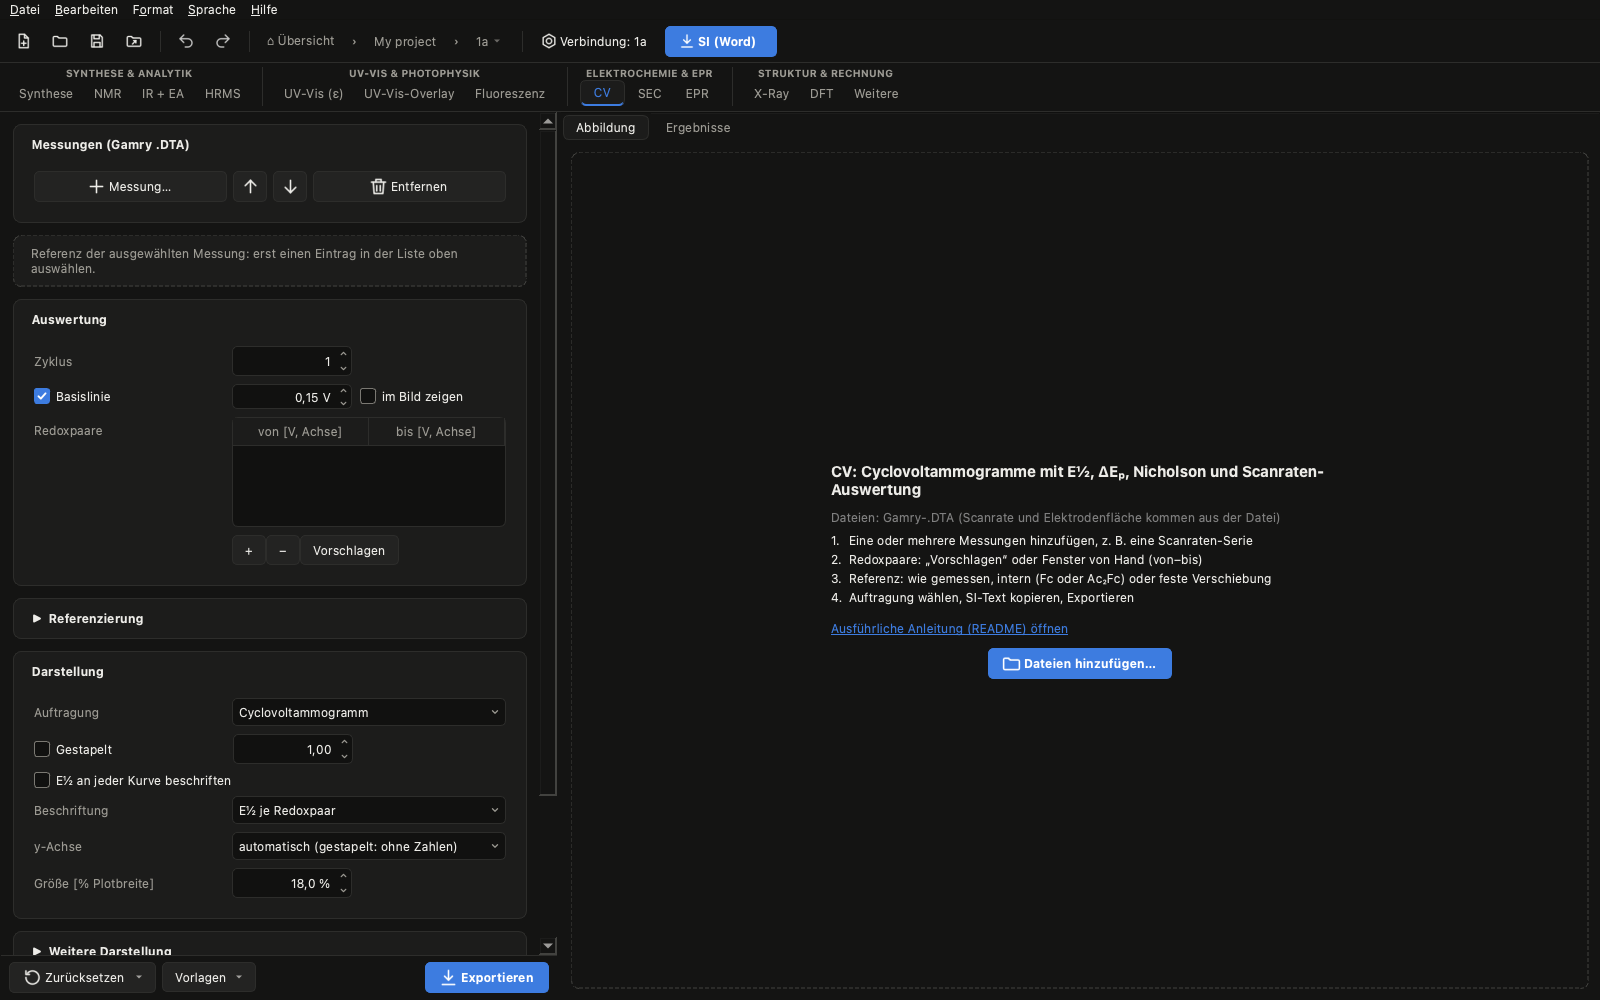
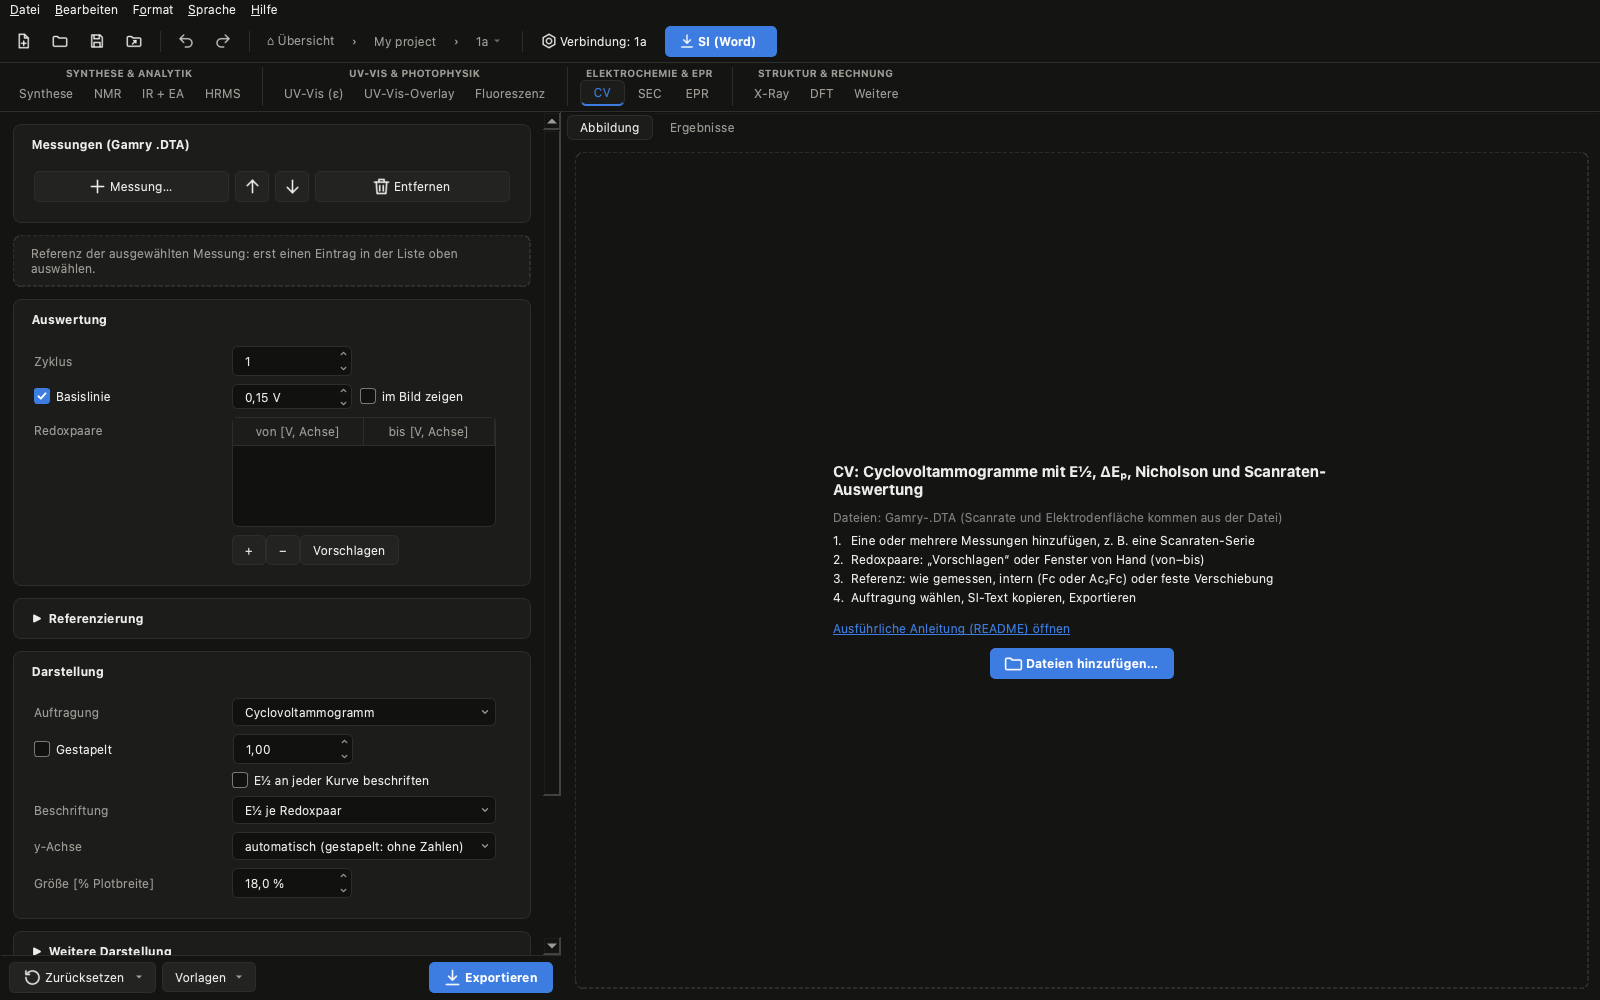
release: 2.4.1 – fields on a fixed grid, same column width in every tab
- Fields: number fields one width, lists/text fields/ranges end at one edge per tab
  (STYLE.WIDE_W, _field_edge); all field text left-aligned with the same inset
- Empty hint lines hide their form row (STYLE.HintLabel)
- Start screen: time and project of a compound share the right edge
- Changelogs 2.4.1, README screenshots regenerated

diff --git a/elucida/app/style.py b/elucida/app/style.py
@@ -150,6 +150,25 @@ def hide_when_empty(table):
     upd()
 
 
+class HintLabel(QLabel):
+    """Hinweiszeile, die ohne Text samt Zeilenabstand verschwindet (keine Leerzeile im Formular)."""
+
+    def setText(self, text):
+        super().setText(text)
+        self.sync()
+
+    def sync(self):
+        p = self.parentWidget()
+        if p is None:
+            return
+        vis = bool(self.text())
+        form = next((fl for fl in p.findChildren(QFormLayout) if fl.indexOf(self) >= 0), None)
+        if form is not None:
+            form.setRowVisible(self, vis)
+        else:
+            self.setVisible(vis)
+
+
 def card(title):
     """Gruppe als Karte, Titel und Ränder wie QGroupBox in den übrigen Tabs. Gibt (Karte, Inhalts-Widget) zurück."""
     frame = QFrame(objectName="card")
@@ -167,7 +186,8 @@ def card(title):
 
 
 FIELD_W = 120                     # einheitliche Breite der Zahlenfelder (Raster der linken Spalte)
-COLUMN_W = 534                    # linke Spalte in allen Tabs gleich breit (breiter nur, wenn Inhalt sonst abgeschnitten)
+WIDE_W = 2 * FIELD_W + 24          # Wertespalte: Listen, Textfelder, „[a] – [b]“ enden an einer Kante (Nutzerwunsch)
+COLUMN_W = 538                    # linke Spalte in allen Tabs gleich breit (breiter nur, wenn Inhalt sonst abgeschnitten)
 CHECKS_IN_FIELD_COLUMN = True     # Häkchen-Zeilen in der Wertespalte (eine Kante für alle Bedienelemente)
 
 
@@ -177,6 +197,50 @@ def _fw(fl, r):
     if li is None or fi is None:
         return 0
     return li.sizeHint().width() + fl.horizontalSpacing() + fi.sizeHint().width()
+
+
+def _field_edge(root):
+    """Wertespalte je Tab an einer Kante (siehe unten): Listen und Textfelder
+    genau so breit, in Zeilen mit mehreren Teilen wächst das erste dehnbare Element (Dateiname, Textfeld, Lücke vor
+    den Knöpfen) auf die Kante. Feste Breiten statt Formularrand: der würde die Mindestbreite der Spalte mitziehen."""
+    from PySide6.QtWidgets import QAbstractScrollArea, QLineEdit
+    forms = [fl for fl in root.findChildren(QFormLayout) if fl.parentWidget() is not None]
+    items = [it for fl in forms for it in (fl.itemAt(r, QFormLayout.FieldRole) for r in range(fl.rowCount()))
+             if it is not None]
+    if not items:
+        return
+    for it in items:
+        if it.widget() is not None:
+            it.widget().ensurePolished()
+    # Kante je Tab: mindestens WIDE_W, sonst die breiteste Zeile aus mehreren Teilen („[a] Ränder [b]“), aber nie
+    # breiter als die feste Spalte (COLUMN_W abzüglich Ränder und Beschriftungsspalte) – die Abbildung bleibt gleich groß
+    lab = max((fl.itemAt(r, QFormLayout.LabelRole).widget().minimumWidth() for fl in forms for r in range(fl.rowCount())
+               if fl.itemAt(r, QFormLayout.LabelRole) is not None and fl.itemAt(r, QFormLayout.LabelRole).widget()),
+              default=0)
+    room = COLUMN_W - 2 * 12 - 2 * 16 - lab - 12 - 10          # Reserve: verschachtelte Karten, Klappkarten
+    wide = max([WIDE_W] + [h for h in (it.sizeHint().width() for it in items if it.layout() is not None) if h <= room])
+    stretchy = (QLineEdit, QComboBox, QAbstractScrollArea)
+    for fl in forms:
+        fl.setFieldGrowthPolicy(QFormLayout.FieldsStayAtSizeHint)
+    for it in items:
+        w, lay = it.widget(), it.layout()
+        if isinstance(w, stretchy) and w.maximumWidth() != FIELD_W:
+            w.setFixedWidth(wide)
+        elif isinstance(lay, QHBoxLayout) and lay.sizeHint().width() < wide:
+            extra = wide - lay.sizeHint().width()
+            for i in range(lay.count()):
+                sub_ = lay.itemAt(i)
+                x = sub_.widget()
+                if sub_.spacerItem() is not None and sub_.expandingDirections() & Qt.Horizontal:
+                    sp = sub_.spacerItem()
+                    sp.changeSize(sp.sizeHint().width() + extra, 0, QSizePolicy.Fixed, QSizePolicy.Minimum)
+                elif (isinstance(x, stretchy) or (isinstance(x, QLabel) and lay.stretch(i) > 0)) and \
+                        x.maximumWidth() != FIELD_W:
+                    x.setFixedWidth(x.sizeHint().width() + extra)
+                else:
+                    continue
+                lay.invalidate()
+                break
 
 
 def tidy(root):
@@ -280,6 +344,9 @@ def tidy(root):
                     if (isinstance(first, QCheckBox) and not isinstance(second, QAbstractSpinBox)
                             and lay.sizeHint().width() + indent <= room):
                         lay.setContentsMargins(indent, 0, 0, 0)
+    _field_edge(root)
+    for h in root.findChildren(HintLabel):                    # leere Hinweise ohne Zeile
+        h.sync()
     for lay in root.findChildren(QHBoxLayout):
         items = [lay.itemAt(i) for i in range(lay.count())]
         if any(isinstance(it.widget(), (QLabel, QCheckBox)) for it in items[1:]):   # Beschriftung nicht ankleben
@@ -301,8 +368,9 @@ class _WheelGuard(QObject):
         t = ev.type()
         if t == QEvent.Polish and isinstance(obj, (QAbstractSpinBox, QComboBox)):
             obj.setFocusPolicy(Qt.StrongFocus)                  # Mausrad gibt keinen Fokus (Qt-Standard: doch)
-            if isinstance(obj, QAbstractSpinBox):               # Zahlen rechtsbündig: Stellen/Einheiten untereinander
-                obj.setAlignment(Qt.AlignRight | Qt.AlignVCenter)
+            if isinstance(obj, QAbstractSpinBox):               # linksbündig wie Text- und Auswahlfelder (Nutzerwunsch)
+                obj.setAlignment(Qt.AlignLeft | Qt.AlignVCenter)
+                obj.lineEdit().setTextMargins(11, 0, 0, 0)      # Stylesheet-Padding gilt nicht für das innere Feld
             if obj.property("fieldw"):                          # Rasterbreite nach dem Stylesheet erneut festsetzen
                 obj.setFixedWidth(FIELD_W)
         elif (t == QEvent.Polish and isinstance(obj, QDialog) and not isinstance(obj, (QMessageBox, QFileDialog))
@@ -558,7 +626,7 @@ QLabel#cardTitle {{ font-weight: bold; }}
 QLabel[formlabel="true"] {{ color: {c['text2']}; }}
 QLineEdit, QSpinBox, QDoubleSpinBox, QComboBox {{
     background: {c['field']}; border: 1px solid {c['border']}; border-radius: 5px;
-    padding: 3px 6px; min-height: 18px; selection-background-color: {c['accent']}; }}
+    padding: 3px 10px; min-height: 18px; selection-background-color: {c['accent']}; }}
 QLineEdit:focus, QSpinBox:focus, QDoubleSpinBox:focus, QComboBox:focus {{ border-color: {c['accent']}; }}
 QLineEdit:disabled, QSpinBox:disabled, QDoubleSpinBox:disabled, QComboBox:disabled {{
     color: {c['disabled']}; background: {c['alt']}; }}
@@ -571,6 +639,7 @@ QSpinBox::up-arrow, QDoubleSpinBox::up-arrow {{ image: url("{a['up']}"); width: 
 QSpinBox::down-arrow, QDoubleSpinBox::down-arrow {{ image: url("{a['down']}"); width: 11px; height: 11px; }}
 QSpinBox::up-arrow:disabled, QDoubleSpinBox::up-arrow:disabled {{ image: url("{a['up_dis']}"); }}
 QSpinBox::down-arrow:disabled, QDoubleSpinBox::down-arrow:disabled {{ image: url("{a['down_dis']}"); }}
+QComboBox {{ padding-left: 12px; }}
 QComboBox::drop-down {{ subcontrol-origin: padding; subcontrol-position: center right; width: 20px; border: none; }}
 QComboBox::down-arrow {{ image: url("{a['down']}"); width: 12px; height: 12px; }}
 QComboBox::down-arrow:disabled {{ image: url("{a['down_dis']}"); }}

diff --git a/elucida/app/main_window.py b/elucida/app/main_window.py
@@ -42,7 +42,7 @@ from PySide6.QtWidgets import (QAbstractItemView, QAbstractSpinBox, QApplication
                                QDialog, QDialogButtonBox, QDoubleSpinBox, QFileDialog, QFontComboBox,
                                QFormLayout, QFrame, QGridLayout, QGroupBox, QHBoxLayout, QInputDialog,
                                QHeaderView, QLabel, QLineEdit, QListWidget, QListWidgetItem, QMainWindow, QMenu, QMessageBox,
-                               QPlainTextEdit, QProgressDialog, QPushButton, QScrollArea,
+                               QPlainTextEdit, QProgressDialog, QPushButton, QScrollArea, QSizePolicy,
                                QSpinBox, QSplitter, QStackedWidget, QStatusBar, QTableWidget, QTableWidgetItem, QTextBrowser,
                                QTabWidget, QToolButton, QVBoxLayout, QWidget)
 
@@ -780,6 +780,7 @@ class MainWindow(QMainWindow):
         self.btn_open = QPushButton(STYLE.icon("open", "#FFFFFF"), T("act_open"))
         self.btn_open.setProperty("accent", True)
         self.btn_open.clicked.connect(self.choose_csv)
+        self.btn_open.setSizePolicy(QSizePolicy.Fixed, QSizePolicy.Fixed)      # natürliche Breite
         row.addWidget(self.btn_open)
         self.lbl_file = QLabel(self.files_label() if self.csv_path else T("no_file"))
         self.lbl_file.setWordWrap(True)

diff --git a/elucida/app/welcome.py b/elucida/app/welcome.py
@@ -199,6 +199,10 @@ class RecentRow(QWidget):
             title.addWidget(ElidedLabel("·  " + info["note"], objectName="recentNote"), 1)
         else:
             title.addStretch(1)
+        # Zeit rechts in der Titelzeile: gleiche rechte Kante wie „▸ Projekt“ darunter (Nutzerwunsch: symmetrisch)
+        when = QLabel(relative_time(info["modified"]), objectName="recentWhen", alignment=Qt.AlignRight | Qt.AlignVCenter)
+        when.setToolTip(info["modified"].strftime("%d.%m.%Y %H:%M"))
+        title.addWidget(when)
         parent = short_path(Path(info["path"]).parent)
         sub = ElidedLabel((info["folder"] + "  ·  " if info["has_compound"] else "") + parent, objectName="recentSub")
         sub.setToolTip(info["path"])
@@ -222,9 +226,6 @@ class RecentRow(QWidget):
         if extra is not None:                          # Publikation: Checkliste der Verbindung
             v.addWidget(extra)
         h.addLayout(v, 1)
-        when = QLabel(relative_time(info["modified"]), objectName="recentWhen", alignment=Qt.AlignRight | Qt.AlignTop)
-        when.setToolTip(info["modified"].strftime("%d.%m.%Y %H:%M"))
-        h.addWidget(when, 0, Qt.AlignTop)
 
     draggable = False                                  # Projektseite: Reihenfolge per Ziehen ändern
     DRAG_MIME = "application/x-elucida-compound"

diff --git a/elucida/tabs/base.py b/elucida/tabs/base.py
@@ -988,7 +988,7 @@ class FigureTab(QWidget):
             self.ed_cap[key] = ed
             lab = f"{self.STATE_KEY}_cap_{key}"
             f.addRow(T(lab if lab in TEXTS else f"cap_{key}"), ed)
-        self.lbl_cap = QLabel("")
+        self.lbl_cap = STYLE.HintLabel("")
         self.lbl_cap.setWordWrap(True)
         self.lbl_cap.setTextFormat(Qt.RichText)
         self.lbl_cap.setStyleSheet(HINT_CSS)
@@ -1200,7 +1200,7 @@ class OverlayTab(FigureTab):
         f.addRow(self.lbl_ccol, self.w_ccol)
         self.sw_ccol = QLabel()
         self.sw_ccol.setFixedHeight(28)
-        self.lbl_ccol_info = QLabel()
+        self.lbl_ccol_info = STYLE.HintLabel()
         self.lbl_ccol_info.setWordWrap(True)
         self.lbl_ccol_info.setTextInteractionFlags(Qt.TextSelectableByMouse)
         f.addRow("", self.sw_ccol)
@@ -2190,7 +2190,7 @@ class FluoTab(FigureTab):
         self.cb_stokes.setChecked(st.get("stokes_label", False))
         self.cb_stokes.toggled.connect(self.changed)
         f.addRow(self.cb_stokes)
-        self.lbl_info = QLabel("")
+        self.lbl_info = STYLE.HintLabel("")
         self.lbl_info.setWordWrap(True)
         self.lbl_info.setTextInteractionFlags(Qt.TextSelectableByMouse)
         f.addRow(self.lbl_info)

diff --git a/elucida/tabs/hrms.py b/elucida/tabs/hrms.py
@@ -19,7 +19,7 @@ from elucida.app.i18n import T
 from elucida.app import project as PRJ
 from elucida.tabs.ir_ea import (ADDUCTS, ELECTRON, copy_rich, ion, is_bruker_d, lc_found, ms_line, nearest, parse_formula,
                         ppm, read_bruker_d, read_ms_docx)
-from elucida.app.style import HINT_CSS, WARN_CSS, make_form
+from elucida.app.style import HINT_CSS, WARN_CSS, HintLabel, make_form
 from elucida.formats.bruker_ms import spectra_of
 from elucida.tabs.ir_ea import mono_mass
 
@@ -180,7 +180,7 @@ class HRMSTab(TABS.FigureTab):
         self.cmb_found = QComboBox()
         self.cmb_found.setToolTip(T("ms_found_tip"))
         f.addRow(T("ms_found"), self.cmb_found)
-        self.lbl_ms_info = QLabel("")
+        self.lbl_ms_info = HintLabel("")
         self.lbl_ms_info.setWordWrap(True)
         f.addRow(self.lbl_ms_info)
         self.txt_ms = QTextBrowser()

diff --git a/elucida/tabs/ir_ea.py b/elucida/tabs/ir_ea.py
@@ -445,7 +445,7 @@ from elucida.si import lines as SI  # noqa: E402
 from elucida.tabs import base as TABS  # noqa: E402
 from elucida.app.i18n import T  # noqa: E402
 from elucida.app import project as PRJ  # noqa: E402
-from elucida.app.style import HINT_CSS, WARN_CSS, make_form  # noqa: E402
+from elucida.app.style import HINT_CSS, WARN_CSS, HintLabel, make_form  # noqa: E402
 
 IR_COLOR = "#7a1a12"
 
@@ -693,7 +693,7 @@ class IRMSTab(TABS.FigureTab):
             ed.editingFinished.connect(self.changed)
             self.ea_calc_lbl[el], self.ea_found_ed[el] = lc, ed
         f.addRow(grid)
-        self.lbl_ea_info = QLabel("")
+        self.lbl_ea_info = HintLabel("")
         self.lbl_ea_info.setWordWrap(True)
         f.addRow(self.lbl_ea_info)
         self.txt_ea = QTextBrowser()

diff --git a/elucida/tabs/nmr.py b/elucida/tabs/nmr.py
@@ -556,7 +556,7 @@ class NMRTab(QWidget):
         self.ed_nuc.setToolTip(T("nmr_nuclei_tip"))
         self.ed_nuc.editingFinished.connect(self.spec_edited)
         f.addRow(T("nmr_nuclei"), self.ed_nuc)
-        self.lbl_nuc = QLabel("", wordWrap=True)
+        self.lbl_nuc = STYLE.HintLabel("", wordWrap=True)
         self.lbl_nuc.setStyleSheet(HINT_CSS)
         f.addRow(self.lbl_nuc)
         self.cmb_kind = QComboBox()
@@ -587,7 +587,7 @@ class NMRTab(QWidget):
         row.addWidget(b)
         row.addStretch(1)
         f.addRow(row)
-        self.lbl_par = QLabel("", wordWrap=True)
+        self.lbl_par = STYLE.HintLabel("", wordWrap=True)
         self.lbl_par.setTextFormat(Qt.RichText)
         f.addRow(self.lbl_par)
         row = QHBoxLayout()

diff --git a/elucida/tabs/sec.py b/elucida/tabs/sec.py
@@ -184,9 +184,9 @@ class SECTab(TABS.FigureTab):
         for w_ in (self.sp_first, QLabel("–"), self.sp_last):
             row.addWidget(w_)
         f.addRow(T("sec_range"), row)
-        self.lbl_range = QLabel("")
+        self.lbl_range = STYLE.HintLabel("")
         self.lbl_range.setStyleSheet(HINT_CSS)
-        f.addRow("", self.lbl_range)
+        f.addRow(self.lbl_range)
         self.cb_highlight = QCheckBox(T("sec_highlight"))
         self.cb_gradient = QCheckBox(T("sec_gradient"))
         self.cb_diff = QCheckBox(T("sec_diff"))

diff --git a/elucida/tabs/cv.py b/elucida/tabs/cv.py
@@ -367,7 +367,7 @@ class CVTab(TABS.FigureTab):
         self.cb_fstruct_color = QCheckBox(T("ov_struct_color"))
         self.cb_fstruct_color.toggled.connect(self.file_ref_changed)
         f.addRow(self.cb_fstruct_color)
-        self.lbl_fref_info = QLabel("")
+        self.lbl_fref_info = STYLE.HintLabel("")
         self.lbl_fref_info.setWordWrap(True)
         self.lbl_fref_info.setStyleSheet(HINT_CSS)
         f.addRow(self.lbl_fref_info)

diff --git a/elucida/tabs/dft.py b/elucida/tabs/dft.py
@@ -857,7 +857,7 @@ class DFTTab(XRAY.MeasureAlign, TABS.FigureTab):
         self.cb_orb_lab.setToolTip(T("dft_orb_labels_tip"))
         self.cb_orb_lab.toggled.connect(self.changed)
         f.addRow(self.cb_orb_lab)
-        self.lbl_orb = QLabel("")
+        self.lbl_orb = STYLE.HintLabel("")
         self.lbl_orb.setWordWrap(True)
         self.lbl_orb.setStyleSheet(HINT_CSS)
         f.addRow(self.lbl_orb)

diff --git a/elucida/__init__.py b/elucida/__init__.py
@@ -2,5 +2,5 @@
 from pathlib import Path
 
 APP_NAME = "Elucida"
-APP_VERSION = "2.4.0"
+APP_VERSION = "2.4.1"
 ROOT = Path(__file__).resolve().parent.parent       # Repo-Wurzel (assets/, README, tools/); gebaut: sys._MEIPASS

diff --git a/CHANGELOG.de.md b/CHANGELOG.de.md
@@ -2,13 +2,15 @@
 
 # Änderungen
 
-## Unveröffentlicht
+## 2.4.1 – 31.10.2026
 
 ### Geändert
 - **Aufbau:** Die Einstellungsspalte ist in allen Tabs gleich breit und fest (nicht mehr verschiebbar); lange
   Beschriftungen gekürzt (Details im Tooltip), Zahlenfelder schmaler, Listenknöpfe in zwei Reihen (Hinzufügen /
   Auswahl). Leere Dateilisten bleiben ausgeblendet, bis etwas geladen ist. Karten, Formulare und Dialoge mit einem
-  gemeinsamen Abstandsraster; der Standardknopf jedes Dialogs ist hervorgehoben.
+  gemeinsamen Abstandsraster; der Standardknopf jedes Dialogs ist hervorgehoben. Felder im festen Raster:
+  Zahlenfelder gleich breit, Auswahllisten, Textfelder und Bereiche enden je Tab an einer Kante; Text in allen Feldern
+  linksbündig mit gleichem Abstand zum Rand; leere Hinweiszeilen hinterlassen keine Lücke.
 - **Navigation:** Der Pfad (Übersicht › Projekt › Verbindung) steht jetzt in der Werkzeugleiste statt in der
   Tab-Leiste; „Verbindung“ und „SI (Word)“ erscheinen nur bei offener Verbindung. Das Fenster lässt sich schmaler
   ziehen (etwa 960 px, halber Full-HD-Bildschirm).
@@ -16,7 +18,8 @@
   Reiter „Rohdaten“.
 - **Projektseite:** Titel über die volle Breite, Aktionen in einer Zeile darunter. Mnova-Ablage für das ganze Projekt
   entfernt (vorhandene Dateien bleiben im Ordner `mnova/`).
-- **Startbildschirm:** Beispielprojekt und Beispielverbindung als Links unten.
+- **Startbildschirm:** Beispielprojekt und Beispielverbindung als Links unten; Zeit und Projekt einer Verbindung
+  an derselben rechten Kante.
 
 ## 2.4.0 – 31.10.2026
 
